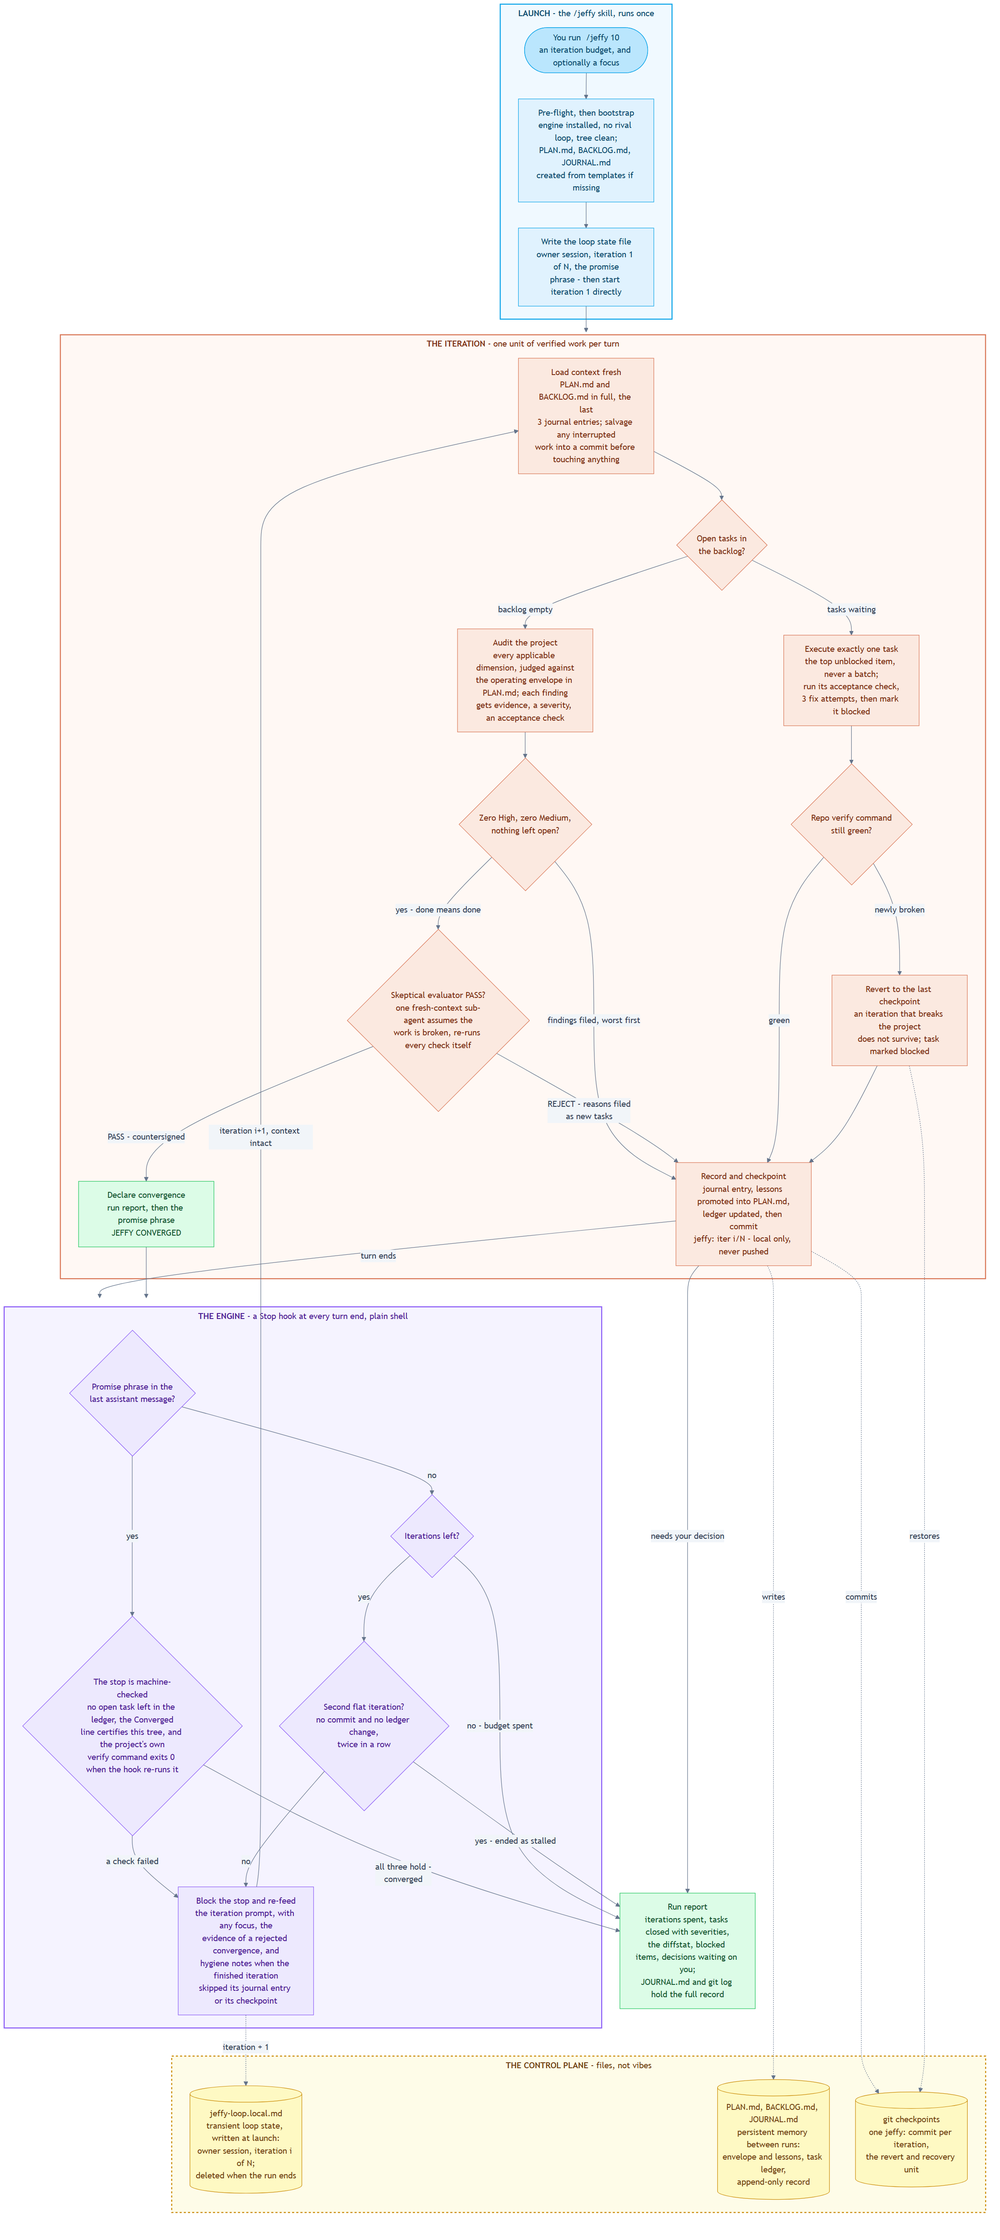
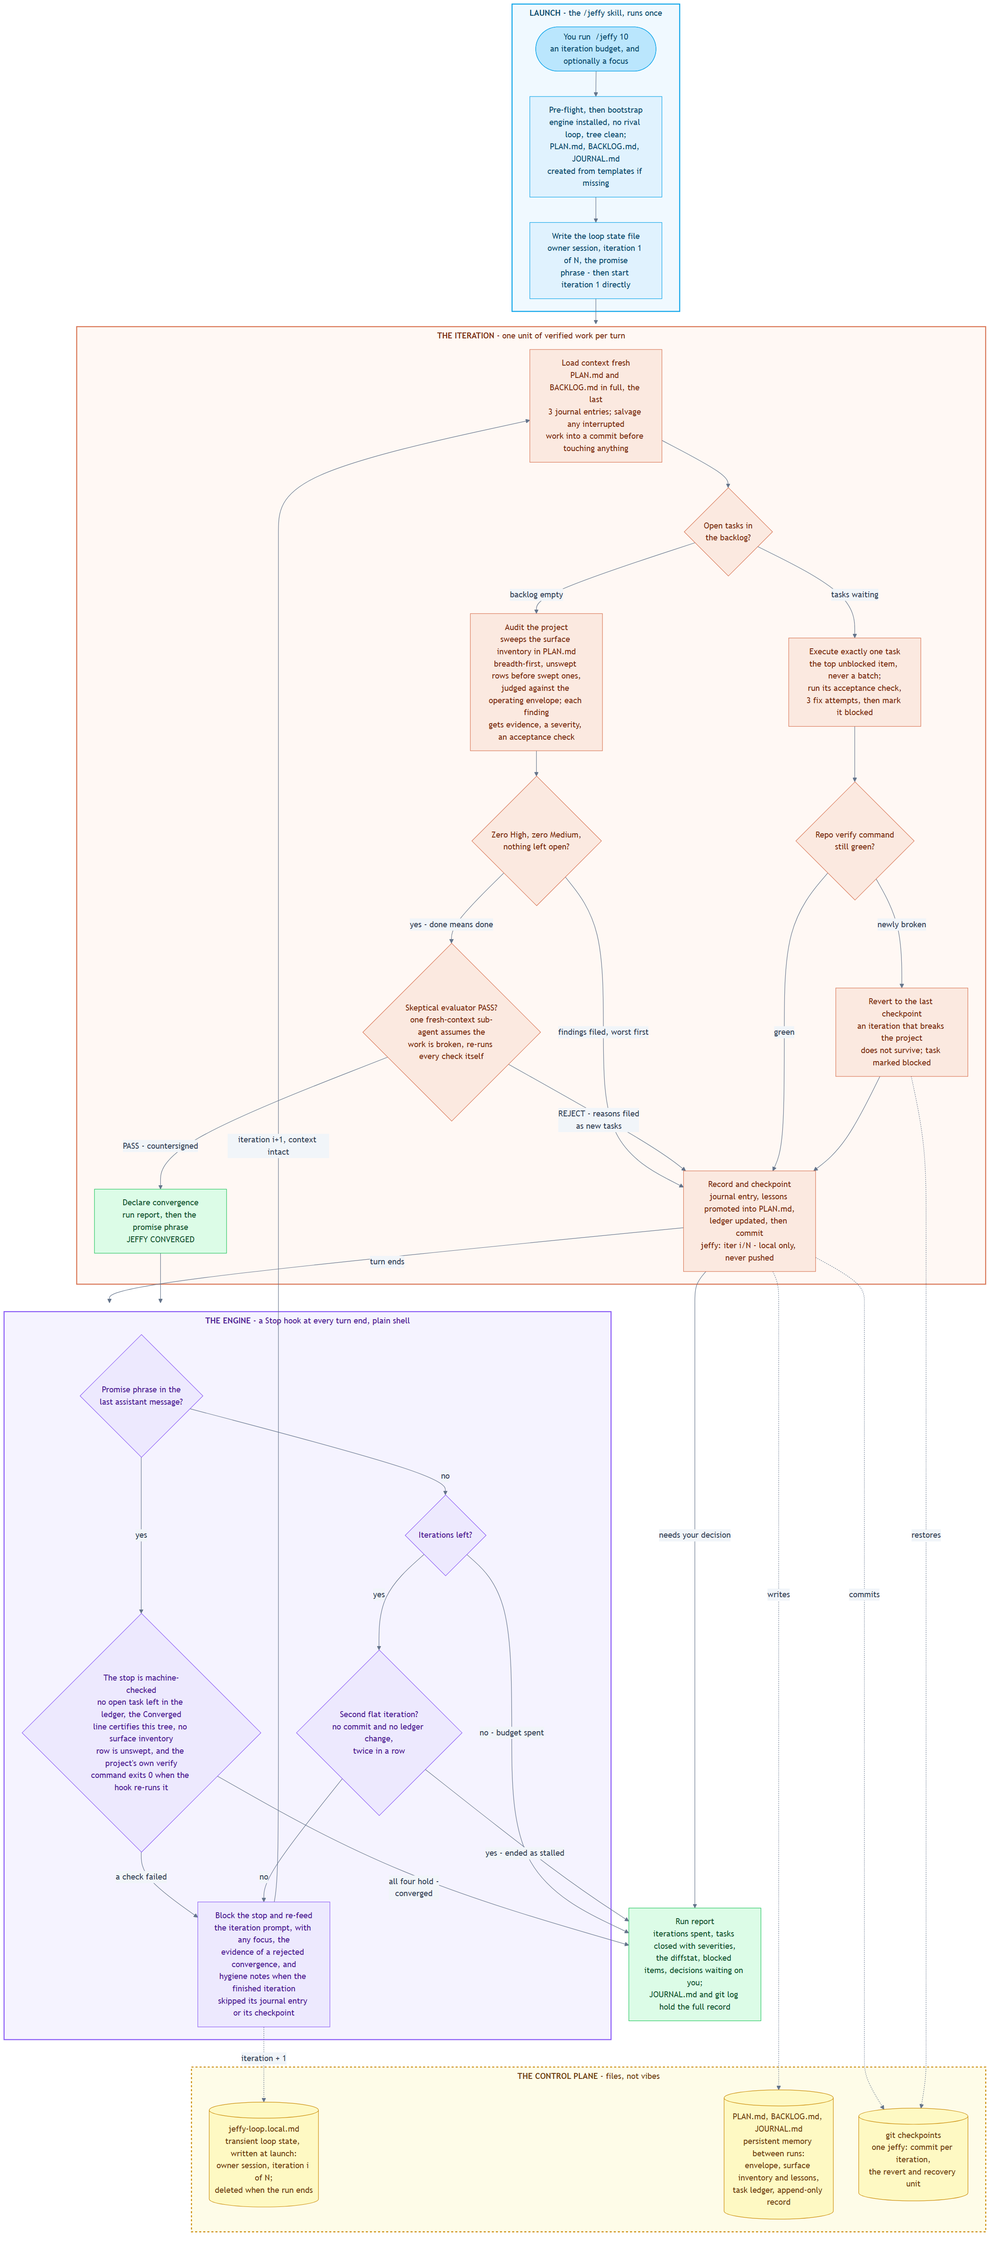
Bring the README fully current with Phases 1-4 and the ta conversion
The evals intro now counts five loop runs and five audits, states the
red-green evidence accurately per receipt kind instead of claiming a repro
script every receipt does not carry, and notes the conversions in progress.
The yfinance entry records the upstream engagement and the dev-branch
re-verification. The rules section gains the surface-inventory and
change-discipline bullets, counts the converged stop's four machine checks,
and describes all three hygiene gates including the append-only archive.
The stale claim that a same-session relaunch starts with a clean context is
corrected here as it was in the skill. Contributing now names the new
proven gates. The flowchart shows the inventory sweep in the audit node and
the four-way machine check in the engine, re-rendered in both themes and
pixel-verified.

Claude-Session: https://claude.ai/code/session_01DHt5XVkCjFdPtapK9DxjZC

diff --git a/README.md b/README.md
@@ -66,7 +66,7 @@ Jeffy Loop descends from the [Ralph technique](https://ghuntley.com/ralph/), Geo
 
 Running `/jeffy` in a Claude Code session:
 
-1. Bootstraps three files at the project root: `PLAN.md` (goal, operating envelope, method, verify command, definition of done), `BACKLOG.md` (prioritized tasks, worst severity first), `JOURNAL.md` (append-only iteration log). They persist between runs - they are the loop's memory.
+1. Bootstraps three files at the project root: `PLAN.md` (goal, operating envelope, surface inventory, method, verify command, definition of done), `BACKLOG.md` (prioritized tasks, worst severity first), `JOURNAL.md` (append-only iteration log). They persist between runs - they are the loop's memory.
 2. Launches a budgeted loop. Each iteration either audits the project or executes exactly one backlog task and verifies its acceptance check; every iteration runs the verify command and ends in a local checkpoint commit.
 3. Stops at the budget, at convergence (clean audit, empty backlog), on a stall, or when you cancel - and closes with the run report.
 
@@ -110,9 +110,9 @@ That convergence is re-earned, not archived: every fresh run of Jeffy on this re
 
 ## Proven on strangers' codebases
 
-Self-runs are easy mode. So Jeffy was pointed at ten real, famous, unaffiliated projects - every one in a local clone, nothing pushed upstream, all of it held to the same rules: evidence before filing, severity judged against a declared envelope, one verified fix at a time, and a reproduction script anyone can run. Every receipt below carries a `repro.py` or `repro.js` that fails on the project's own unmodified code and passes against the patch, so none of this has to be taken on trust.
+Self-runs are easy mode. So Jeffy was pointed at ten real, famous, unaffiliated projects - every one in a local clone, nothing pushed upstream, all of it held to the same rules: evidence before filing, severity judged against a declared envelope, one verified fix at a time, and red-green proof anyone can re-run. The audit receipts each ship a `repro.py` or `repro.js` that fails on the project's own unmodified code and passes against the patch; the loop-run receipts carry their regression tests inside `fixes.patch`, proven red at upstream HEAD, or - where the honest outcome was restraint - the exact commands and outputs the run recorded. None of this has to be taken on trust.
 
-Two things are worth knowing before the list. **Four of these were full `/jeffy` loop runs** (records, mustache.js, speedtest-cli, chalk), which is why their receipts quote iteration counts and convergence. **Six were audits run under Jeffy's method and rules** but not through the loop, because the loop needs its own session per project; they are marked *audit* below. And **every single audit disproved at least one bug report it was handed.** A tracker issue is a hypothesis, not a finding, and the difference between those two is most of what this section is testing.
+Two things are worth knowing before the list. **Five of these were full `/jeffy` loop runs** (records, mustache.js, speedtest-cli, chalk, ta), which is why their receipts quote iteration counts and convergence. **Five were audits run under Jeffy's method and rules** but not through the loop, because the loop needs its own session per project; they are marked *audit* below, and the conversions to real loop runs are in progress, worst target first. And **every single audit disproved at least one bug report it was handed.** A tracker issue is a hypothesis, not a finding, and the difference between those two is most of what this section is testing.
 
 Ordered by what was found, worst first.
 
@@ -120,7 +120,7 @@ Ordered by what was found, worst first.
 
 **[kennethreitz/records](evals/records/REPORT.md)** (7,220 stars, loop run). At upstream HEAD, `pytest` says 31 passed. At the same HEAD, `INSERT`s silently lose data, `transaction()` swallows every exception, and every query leaks a pooled connection. Jeffy reproduced **four High-severity bugs hiding behind a green test suite**, closed three with one structural fix at the boundary they share, restored a fix upstream had reverted the same day it was made, and left a regression suite proven to fail on the old code - [`repro.py`](evals/records/repro.py) shows the bugs on upstream HEAD, [`fixes.patch`](evals/records/fixes.patch) makes it show them fixed. Findings were disclosed upstream with repros and a PR offer in [kennethreitz/records#236](https://github.com/kennethreitz/records/issues/236).
 
-**[ranaroussi/yfinance](evals/yfinance/REPORT.md)** (24,812 stars, *audit*). The market-data client, audited across its price-repair module. The bug report it was chasing turned out to be **wrong on two of its three claims**, and what the audit found instead is worse: after repairing one bad block, the module rescales the **entire table** and inverts the **entire** repair-flag array. A pence-quoted table containing one genuine 100x block came back with all 90 rows 100x too large, 20 broken rows flagged clean, and 40 clean rows flagged as repaired; the control with that branch skipped got 0 of 90 wrong. Four High findings in all, including a crash reachable from upstream's own committed test fixture. The patch leaves all 42 of the project's golden fixtures byte-identical apart from the one it fixes. Findings were disclosed upstream with repros and a PR offer in [ranaroussi/yfinance#2924](https://github.com/ranaroussi/yfinance/issues/2924).
+**[ranaroussi/yfinance](evals/yfinance/REPORT.md)** (24,812 stars, *audit*). The market-data client, audited across its price-repair module. The bug report it was chasing turned out to be **wrong on two of its three claims**, and what the audit found instead is worse: after repairing one bad block, the module rescales the **entire table** and inverts the **entire** repair-flag array. A pence-quoted table containing one genuine 100x block came back with all 90 rows 100x too large, 20 broken rows flagged clean, and 40 clean rows flagged as repaired; the control with that branch skipped got 0 of 90 wrong. Four High findings in all, including a crash reachable from upstream's own committed test fixture. The patch leaves all 42 of the project's golden fixtures byte-identical apart from the one it fixes. Findings were disclosed upstream with repros and a PR offer in [ranaroussi/yfinance#2924](https://github.com/ranaroussi/yfinance/issues/2924) - a collaborator engaged and pointed at the dev branch, and re-verification there found the fixture crash already fixed on dev while the whole-table rescale and the capital-gains crash still reproduce, results posted back to the thread.
 
 **[mholt/PapaParse](evals/papaparse/REPORT.md)** (13,532 stars, *audit*). The CSV parser, 14.3M downloads a week. Four High findings in the streaming path: a multi-byte UTF-8 character split across a chunk boundary decodes to `U+FFFD`; the line ending is guessed from a truncated first chunk and then cached for the whole file, leaving a stray `\r` on every last field with no error and a correct row count; header dedupe re-runs on every resumed row and rewrites data in place; and `pause()` applies no backpressure at all, so a 400 MB stream dies with a heap out-of-memory while the unpaused control finishes at 78 MB. A failing regression test sits at HEAD for a bug the project already fixed once. The quoted-field chunk-boundary case, the one most likely to be broken, was tested exhaustively and found **correct**, and is kept as a guard. Findings were disclosed upstream with repros and a PR offer in [mholt/PapaParse#1132](https://github.com/mholt/PapaParse/issues/1132) - a collaborator asked for one pull request per issue with a test for each, and the four High findings went up as [#1133](https://github.com/mholt/PapaParse/pull/1133), [#1134](https://github.com/mholt/PapaParse/pull/1134), [#1135](https://github.com/mholt/PapaParse/pull/1135) and [#1136](https://github.com/mholt/PapaParse/pull/1136), each carrying a regression test proven to fail on master.
 
@@ -195,9 +195,11 @@ By default `/jeffy` runs in Improvement mode: an open-ended audit-and-fix loop. 
 - An interrupted run salvages its dirty tree into a commit and continues. Work is never reset or discarded.
 - Two consecutive no-progress iterations end the loop as a hard blocker instead of burning budget. The Stop hook enforces this itself; see the shell-enforcement rule below.
 - Severity comes from the operating envelope, never from imagination; envelope changes and audit escalations go to the Proposed section of `BACKLOG.md` for your approval - the loop never widens its own mandate.
+- Audits work from a written map, never from wandering. The first audit lists the project's whole public surface as a checkbox inventory in `PLAN.md` and probes it breadth-first before filing anything; every sweep records the commit it certified, a row reopens when its code changes, dimension scores claim only the rows actually swept, and no run converges while a row is unswept.
+- Changes are made with the map open. Before touching shared or public code the loop reads its callers and the tests that pin it and states the contract the change preserves; a change that alters behavior or accepted inputs updates the documentation and reopens the affected inventory rows in the same iteration.
 - Convergence is sticky: the converged commit is recorded, and relaunching on an unchanged tree with an empty backlog re-verifies and re-converges immediately instead of re-rolling the audit dice. A seeded backlog or a focus directive always gets a real run. Settled defect classes are not re-litigated on unchanged code.
 - Convergence needs a second signature. The closing declaration is gated by one independent fresh-context evaluator sub-agent that assumes the work is broken, re-runs the checks itself, and is bound by the same envelope and evidence rules as the audit. At most two evaluator reviews per run - a second rejection ends the run as a blocker with the reasons in the report - and a session that cannot spawn sub-agents records that in the journal and report instead of silently skipping the gate. The sticky-convergence ratchet, which re-verifies a mechanical fact rather than a judgment, never invokes it.
-- The converged stop is enforced in shell, not just prompted. At the promise the Stop hook itself checks three things: no open task in Now, Next, or Later; the latest Converged line naming a commit with nothing but loop state changed since it; and the project's verify command - the one on the `Command:` line of `PLAN.md` - exiting 0, re-run by the hook under a timeout (240s default, `verify_timeout_seconds` in the loop state file to override). Violations block the stop and re-feed with the evidence; a missing ledger or verify infrastructure fails open with a stderr diagnostic rather than trapping the session. The installer registers the hook with a 600s timeout so the verify run fits; re-run the installer after upgrading so an older registration gains the field. Between iterations the same hook runs two hygiene gates: the finished iteration must have journaled itself under the heading grammar and checkpointed its tracked changes, or the next re-feed carries an ITERATION HYGIENE note naming exactly what is missing. Untracked files never trip it - they belong to salvage and the next checkpoint's sweep. The hook also watches for stalls: progress means HEAD moved or `BACKLOG.md` changed since the previous turn end, so an audit that files tasks counts and journal-only churn does not. The first flat iteration re-feeds with a STALL note naming the evidence, a second consecutive one ends the run from shell the way the budget stop does, and any progress resets the strike. Without git the ledger signal alone decides; a project with neither signal skips the check with a stderr diagnostic.
+- The converged stop is enforced in shell, not just prompted. At the promise the Stop hook itself checks four things: no open task in Now, Next, or Later; the latest Converged line naming a commit with nothing but loop state changed since it; no unswept row in the Surface inventory; and the project's verify command - the one on the `Command:` line of `PLAN.md` - exiting 0, re-run by the hook under a timeout (240s default, `verify_timeout_seconds` in the loop state file to override). Violations block the stop and re-feed with the evidence; a missing ledger or verify infrastructure fails open with a stderr diagnostic rather than trapping the session. The installer registers the hook with a 600s timeout so the verify run fits; re-run the installer after upgrading so an older registration gains the field. Between iterations the same hook runs three hygiene gates: the finished iteration must have journaled itself under the heading grammar - whose run token tells two runs in one session apart - and checkpointed its tracked changes, and `JOURNAL-archive.md` may only ever grow, so a rotation that overwrote the archive instead of appending is caught before the loss compounds. Violations ride the next re-feed as an ITERATION HYGIENE note naming exactly what is missing. Untracked files never trip it - they belong to salvage and the next checkpoint's sweep. The hook also watches for stalls: progress means HEAD moved or `BACKLOG.md` changed since the previous turn end, so an audit that files tasks counts and journal-only churn does not. The first flat iteration re-feeds with a STALL note naming the evidence, a second consecutive one ends the run from shell the way the budget stop does, and any progress resets the strike. Without git the ledger signal alone decides; a project with neither signal skips the check with a stderr diagnostic.
 - Lessons persist. An operational rule the loop learns the hard way - a build quirk, a command that must not be used - is promoted to the Lessons section of `PLAN.md`, which every future iteration reads in full. Add your own lines there to steer future runs: fix the loop, not the run.
 - Repeated-idiom fixes must enumerate and cover every sibling site to count as done; the third finding sharing one root cause forces a single structural fix or a user decision, never a fourth spot patch.
 
@@ -211,7 +213,7 @@ Run `/cancel-jeffy`. It reports which loop it found, deletes the loop state file
 - You can talk to the session mid-run: your message gets answered, then the loop resumes on its own. The turn counts against the budget.
 - Permission prompts pause the loop. For unattended runs, allowlist your test and file tools or use acceptEdits mode. Never allowlist push or force operations for a loop.
 - Budget counts turns, and a single turn is unbounded in time and cost - keep N small on a first run and watch it. Check spend anytime with `/cost`.
-- Prefer several small runs over one big one. The engine re-feeds the same session, so context accumulates across iterations within a run; the state files persist between runs and convergence is sticky, so two runs of 5 beat one run of 10, and each relaunch starts with a clean context.
+- Prefer several small runs over one big one. The engine re-feeds the same session, so context accumulates across iterations within a run; the state files persist between runs and convergence is sticky, so two runs of 5 beat one run of 10. The clean context only arrives with a new session, though: relaunching `/jeffy` in the session that just finished keeps every accumulated token and forfeits the benefit. Close the session and start a fresh one in the same directory - the state files carry the run forward, nothing is lost.
 - Edit `PLAN.md` or `BACKLOG.md` between iterations, not mid-iteration; the Proposed section is the designed channel for decisions.
 - Trust model: the entire engine is one auditable shell script in this repo (`skills/jeffy/hooks/stop-hook.sh`), registered as a Claude Code Stop hook. It fires at turn end but exits instantly unless the current project has a live Jeffy state file naming that session - zero cost and zero behavior outside a run. The installer's only writes outside this repo are the two skill folders it copies into `~/.claude/skills` (engine included) and that one hook registration in `~/.claude/settings.json`.
 
@@ -227,7 +229,7 @@ It gates, among other things:
 
 - **Syntax and lint** - both installers and the Stop hook (`bash -n`, PowerShell parser, shellcheck).
 - **Skill integrity** - frontmatter, referenced paths, the governance markers that keep the envelope, ratchet, verify gate, run report, and convergence rules from silently regressing - including the `Command:` line the default plan hands the hook to run - and the iteration prompt's injection invariants.
-- **Behavior, not just parsing** - both installers run non-interactively against sandboxed profiles (skills and engine must land, and the hook registration must appear exactly once even after a re-run and carry the 600s timeout, whether written fresh or upgraded from an older entry), and the Stop hook itself is exercised through its full lifecycle: mid-budget re-feed, budget exhaustion, completion promise, foreign-session isolation, and the no-state no-op. The gates that guard the converged stop are held to the same standard - an open task, a `Converged` line that no longer certifies the tree, and a verify command that is red, that overruns its timeout, or that is declared `none` each have to produce the right outcome, and the verify parser is proven on both plan shapes, the labelled `Command:` line and the bare first-line form - as are the per-iteration hygiene gates and the fail-open paths for a missing ledger, journal, or plan, a malformed counter, and a moved prompt file. The stall gate is proven the same way: progress on either signal stays silent, the first flat iteration draws the STALL note and arms the flag, the second consecutive one ends the run, progress resets the strike, a non-git project stalls out on the ledger signal alone, a project with neither signal skips with a stderr note, and neither budget exhaustion nor a valid promise is disturbed by an armed flag.
+- **Behavior, not just parsing** - both installers run non-interactively against sandboxed profiles (skills and engine must land, and the hook registration must appear exactly once even after a re-run and carry the 600s timeout, whether written fresh or upgraded from an older entry), and the Stop hook itself is exercised through its full lifecycle: mid-budget re-feed, budget exhaustion, completion promise, foreign-session isolation, and the no-state no-op. The gates that guard the converged stop are held to the same standard - an open task, a `Converged` line that no longer certifies the tree, an unswept Surface inventory row, and a verify command that is red, that overruns its timeout, or that is declared `none` each have to produce the right outcome, a fully swept inventory and a pre-inventory `PLAN.md` are both accepted, and the verify parser is proven on both plan shapes, the labelled `Command:` line and the bare first-line form - as are the per-iteration hygiene gates and the fail-open paths for a missing ledger, journal, or plan, a malformed counter, and a moved prompt file. The hygiene gates are proven both ways too: a journal heading that names the session but not the run is rejected and a legacy state file without a run token falls back cleanly, and a rotation that shrinks or deletes `JOURNAL-archive.md` is caught while an appending one passes and a never-rotated project is left alone. The stall gate is proven the same way: progress on either signal stays silent, the first flat iteration draws the STALL note and arms the flag, the second consecutive one ends the run, progress resets the strike, a non-git project stalls out on the ledger signal alone, a project with neither signal skips with a stderr note, and neither budget exhaustion nor a valid promise is disturbed by an armed flag.
 
 Core checks need only bash and coreutils; shellcheck, PowerShell, and jq passes skip cleanly when absent. CI runs the same validator on Linux and Windows.
 
